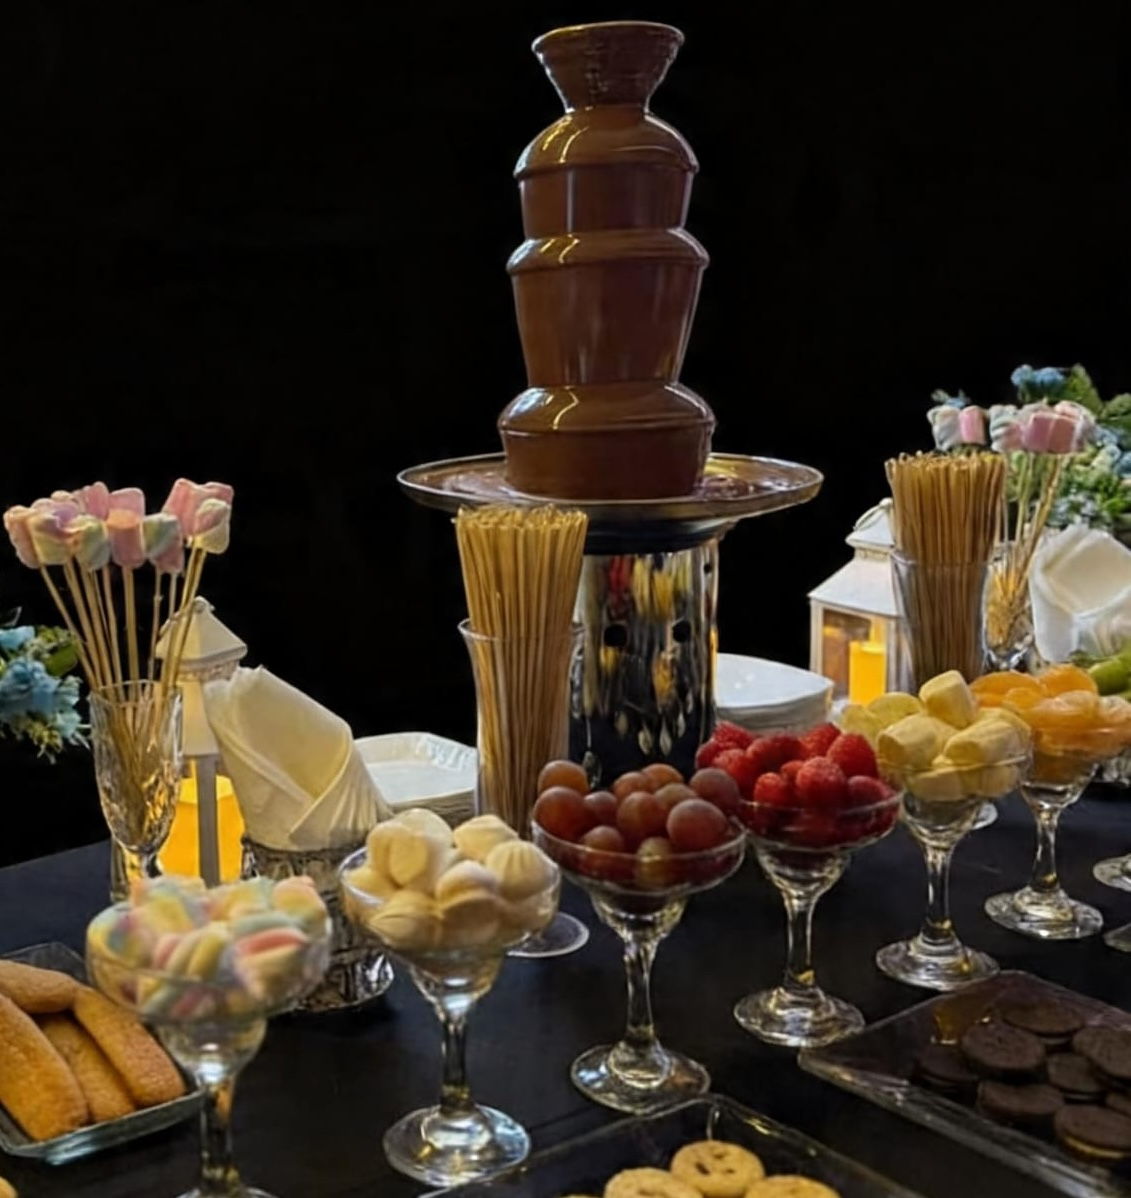
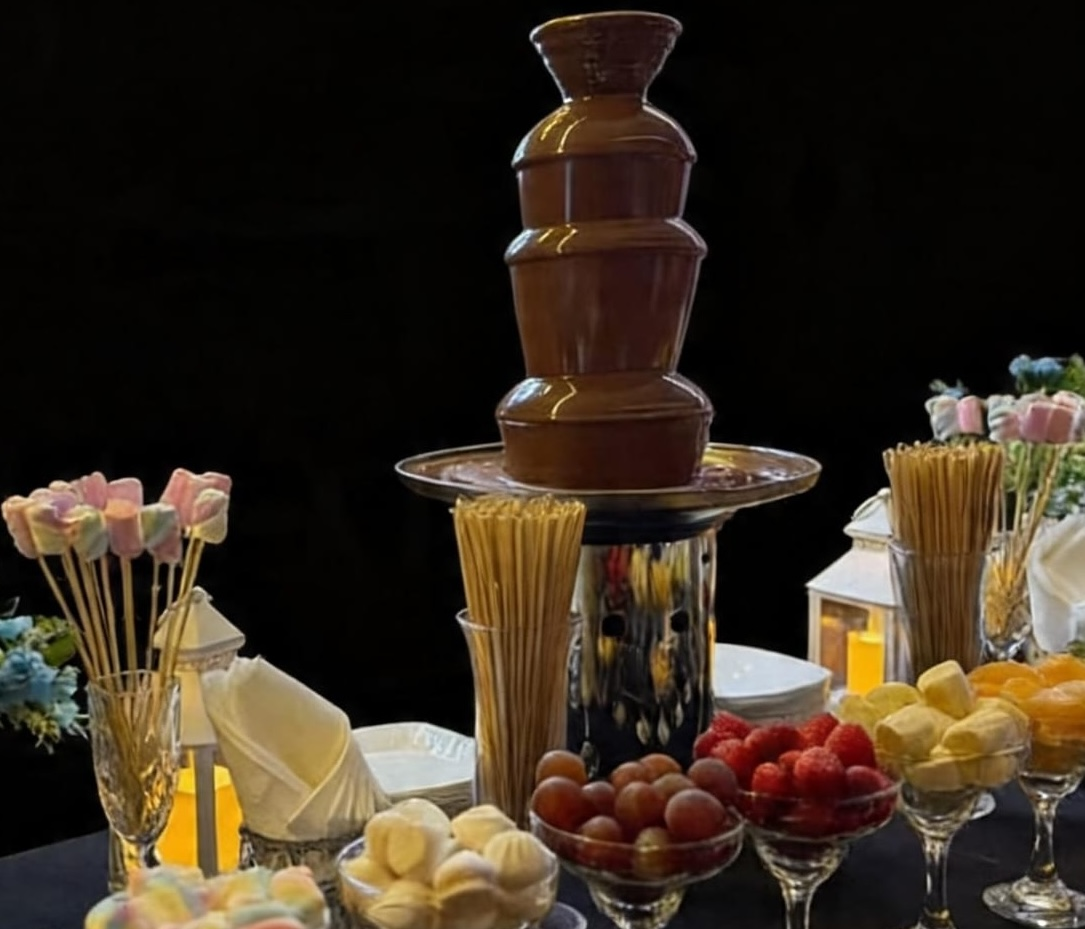
Revert showcase carousel to original design

diff --git a/src/app/page.tsx b/src/app/page.tsx
@@ -223,83 +223,66 @@ export default function Home() {
         ══════════════════════════════════════════════════════════ */}
         <section id="showcase" style={{ position: 'relative', height: '100dvh', overflow: 'hidden', background: '#000' }}>
 
-          {/* ── Imagen de fondo ──────────────────────────────────────
-              Cascada (local): oscura, hero clásico
-              Productos (API): 80% brillo — se VEN, no son fondo */}
+          {/* Slide actual */}
           <div key={slide} className={exiting ? 'slide-exit' : 'slide-enter'} style={{ position: 'absolute', inset: 0 }}>
             {cur.isLocal ? (
-              /* Cascada: cover — es una foto de ambiente, llena bien el fondo */
-              <Image src={cur.img} alt="" fill priority
-                style={{ objectFit: 'cover', objectPosition: 'center', filter: 'brightness(.45)', zIndex: 0 }} />
+              <Image src={cur.img} alt="" fill style={{ objectFit: 'cover', filter: 'brightness(.35)', zIndex: 0 }} />
             ) : cur.img ? (
-              /* Productos: contain — imagen COMPLETA, sin recortar nada */
               // eslint-disable-next-line @next/next/no-img-element
-              <img src={cur.img} alt="" style={{
-                position: 'absolute', inset: 0,
-                width: '100%', height: '100%',
-                objectFit: 'contain',      /* muestra la imagen entera, sin cortar */
-                objectPosition: 'center',
-                zIndex: 0,
-              }} />
+              <img src={cur.img} alt="" style={{ position: 'absolute', inset: 0, width: '100%', height: '100%', objectFit: 'cover', filter: 'brightness(.35)', zIndex: 0 }} />
             ) : (
               <div style={{ position: 'absolute', inset: 0, background: 'radial-gradient(ellipse at 30% 50%, rgba(60,10,10,.8), #000)', zIndex: 0 }} />
             )}
           </div>
 
-          {/* Overlay: solo degradado en bottom para que el texto sea legible */}
-          <div style={{
-            position: 'absolute', inset: 0, zIndex: 1,
-            background: cur.isLocal
-              ? 'linear-gradient(135deg, rgba(0,0,0,.55) 0%, rgba(0,0,0,.2) 55%, rgba(220,38,38,.06) 100%)'
-              : 'linear-gradient(to top, rgba(0,0,0,.92) 0%, rgba(0,0,0,.6) 25%, rgba(0,0,0,.1) 55%, transparent 100%)',
-          }} />
+          {/* Overlay gradiente */}
+          <div style={{ position: 'absolute', inset: 0, zIndex: 1, background: 'linear-gradient(135deg, rgba(0,0,0,.5) 0%, rgba(0,0,0,.2) 50%, rgba(220,38,38,.08) 100%)' }} />
 
-          {/* Dots laterales — desktop */}
+          {/* Línea decorativa izquierda */}
           <div style={{ position: 'absolute', left: 48, top: 0, bottom: 0, zIndex: 3, display: 'flex', flexDirection: 'column', justifyContent: 'center', gap: 12 }} className="md-hide">
             {slides.map((_, i) => (
               <button key={i} onClick={() => goTo(i)} className={`dot ${i === slide ? 'active' : ''}`} style={{ border: 'none', cursor: 'pointer' }} />
             ))}
           </div>
 
-          {/* ── Contenido del slide ──────────────────────────────────
-              maxWidth: 48% en desktop → texto en el lado oscuro izq.  */}
+          {/* Contenido del slide */}
           <div style={{ position: 'absolute', inset: 0, zIndex: 2, display: 'flex', flexDirection: 'column', justifyContent: 'flex-end', padding: 'clamp(40px,6vw,100px)' }}>
-            <div key={`content-${slide}`} style={{ animation: 'fadeZoomIn .9s cubic-bezier(.16,1,.3,1) forwards', maxWidth: 680 }}>
+            <div key={`content-${slide}`} style={{ animation: 'fadeZoomIn .9s cubic-bezier(.16,1,.3,1) forwards', maxWidth: 700 }}>
               <div style={{ display: 'flex', alignItems: 'center', gap: 12, marginBottom: 20 }}>
-                <div style={{ width: 32, height: 1.5, background: '#DC2626', borderRadius: 1 }} />
-                <span style={{ fontFamily: C, fontSize: 11, letterSpacing: '0.45em', textTransform: 'uppercase', color: 'rgba(220,38,38,.95)' }}>{cur.label}</span>
+                <div style={{ width: 32, height: 1, background: '#DC2626' }} />
+                <span style={{ fontFamily: C, fontSize: 11, letterSpacing: '0.45em', textTransform: 'uppercase', color: 'rgba(220,38,38,.9)' }}>{cur.label}</span>
               </div>
-              <h2 style={{ fontFamily: P, fontSize: 'clamp(2.8rem,6vw,6.5rem)', fontWeight: 400, lineHeight: 0.92, color: '#FAF7F2', marginBottom: cur.sub ? 18 : 32, whiteSpace: 'pre-line', textShadow: '0 2px 20px rgba(0,0,0,.5)' }}>
+              <h2 style={{ fontFamily: P, fontSize: 'clamp(3rem,7vw,7rem)', fontWeight: 400, lineHeight: 0.9, color: '#FAF7F2', marginBottom: cur.sub ? 20 : 36, whiteSpace: 'pre-line' }}>
                 {cur.title}
               </h2>
               {cur.sub && (
-                <p style={{ fontFamily: C, fontSize: 'clamp(1rem,1.8vw,1.35rem)', color: 'rgba(255,255,255,.78)', marginBottom: 32, letterSpacing: '0.02em', lineHeight: 1.6 }}>{cur.sub}</p>
+                <p style={{ fontFamily: C, fontSize: 'clamp(1.1rem,2vw,1.4rem)', color: 'rgba(255,255,255,.5)', marginBottom: 36, letterSpacing: '0.02em' }}>{cur.sub}</p>
               )}
               <a href={cur.cta.href} target={cur.cta.external ? '_blank' : undefined} rel="noreferrer" className="btn-red">
                 {cur.cta.text} →
               </a>
             </div>
 
-            {/* Dots + counter */}
-            <div style={{ display: 'flex', alignItems: 'center', gap: 16, marginTop: 36 }}>
+            {/* Dots mobile + counter */}
+            <div style={{ display: 'flex', alignItems: 'center', gap: 16, marginTop: 40 }}>
               <div style={{ display: 'flex', gap: 8 }}>
                 {slides.map((_, i) => (
                   <button key={i} onClick={() => goTo(i)} className={`dot ${i === slide ? 'active' : ''}`} style={{ border: 'none', cursor: 'pointer' }} />
                 ))}
               </div>
-              <span style={{ fontFamily: C, fontSize: 12, color: 'rgba(255,255,255,.3)', letterSpacing: '0.15em' }}>
+              <span style={{ fontFamily: C, fontSize: 12, color: 'rgba(255,255,255,.25)', letterSpacing: '0.15em' }}>
                 {String(slide + 1).padStart(2,'0')} / {String(total).padStart(2,'0')}
               </span>
             </div>
           </div>
 
           {/* Flechas */}
-          <button onClick={() => goTo((slide - 1 + total) % total)} style={{ position: 'absolute', right: 80, bottom: 'clamp(40px,6vw,90px)', zIndex: 4, background: 'rgba(255,255,255,.08)', border: '1px solid rgba(255,255,255,.15)', color: '#fff', width: 48, height: 48, borderRadius: '50%', cursor: 'pointer', fontSize: 20, transition: 'all .3s', display: 'flex', alignItems: 'center', justifyContent: 'center' }}
+          <button onClick={() => goTo((slide - 1 + total) % total)} style={{ position: 'absolute', right: 80, bottom: 'clamp(40px,6vw,90px)', zIndex: 4, background: 'rgba(255,255,255,.06)', border: '1px solid rgba(255,255,255,.1)', color: '#fff', width: 48, height: 48, borderRadius: '50%', cursor: 'pointer', fontSize: 18, transition: 'all .3s', display: 'flex', alignItems: 'center', justifyContent: 'center' }}
             onMouseEnter={e => { e.currentTarget.style.background = '#DC2626'; e.currentTarget.style.borderColor = '#DC2626' }}
-            onMouseLeave={e => { e.currentTarget.style.background = 'rgba(255,255,255,.08)'; e.currentTarget.style.borderColor = 'rgba(255,255,255,.15)' }}>‹</button>
-          <button onClick={() => goTo((slide + 1) % total)} style={{ position: 'absolute', right: 24, bottom: 'clamp(40px,6vw,90px)', zIndex: 4, background: 'rgba(255,255,255,.08)', border: '1px solid rgba(255,255,255,.15)', color: '#fff', width: 48, height: 48, borderRadius: '50%', cursor: 'pointer', fontSize: 20, transition: 'all .3s', display: 'flex', alignItems: 'center', justifyContent: 'center' }}
+            onMouseLeave={e => { e.currentTarget.style.background = 'rgba(255,255,255,.06)'; e.currentTarget.style.borderColor = 'rgba(255,255,255,.1)' }}>‹</button>
+          <button onClick={() => goTo((slide + 1) % total)} style={{ position: 'absolute', right: 24, bottom: 'clamp(40px,6vw,90px)', zIndex: 4, background: 'rgba(255,255,255,.06)', border: '1px solid rgba(255,255,255,.1)', color: '#fff', width: 48, height: 48, borderRadius: '50%', cursor: 'pointer', fontSize: 18, transition: 'all .3s', display: 'flex', alignItems: 'center', justifyContent: 'center' }}
             onMouseEnter={e => { e.currentTarget.style.background = '#DC2626'; e.currentTarget.style.borderColor = '#DC2626' }}
-            onMouseLeave={e => { e.currentTarget.style.background = 'rgba(255,255,255,.08)'; e.currentTarget.style.borderColor = 'rgba(255,255,255,.15)' }}>›</button>
+            onMouseLeave={e => { e.currentTarget.style.background = 'rgba(255,255,255,.06)'; e.currentTarget.style.borderColor = 'rgba(255,255,255,.1)' }}>›</button>
         </section>
 
         {/* ═══════════════════════════════════════════════════════
